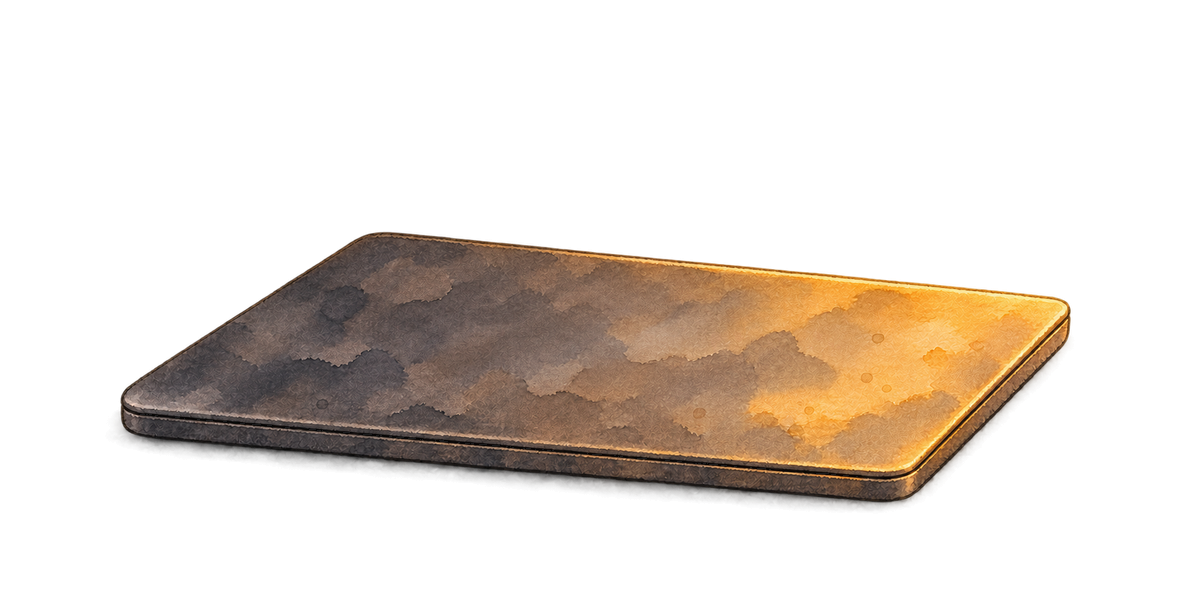
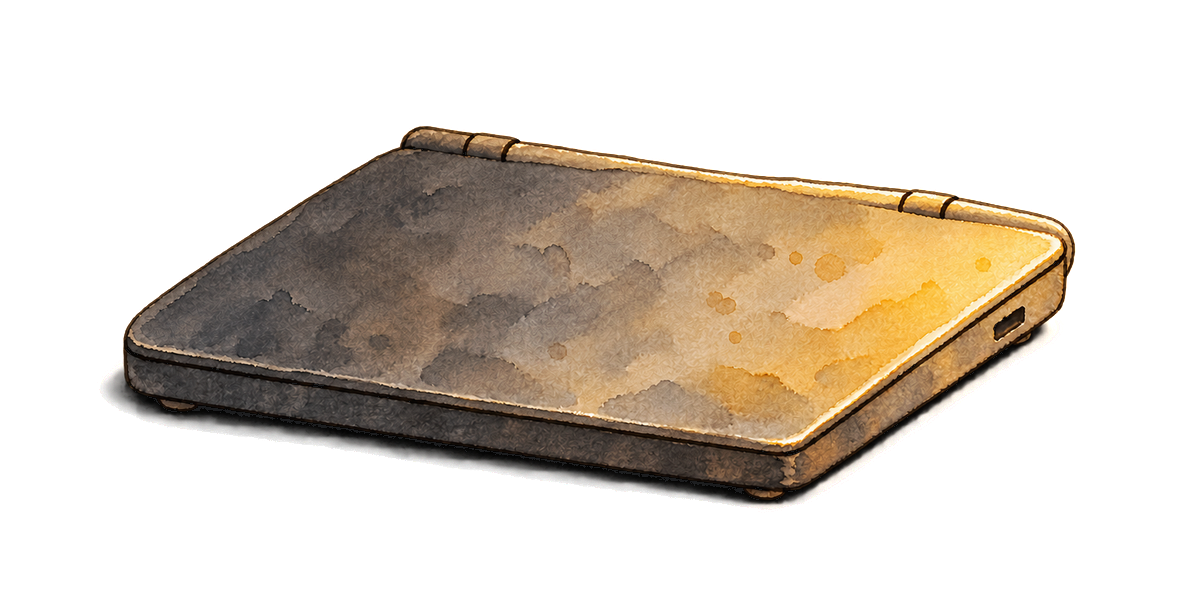
Repaint the sunrise laptop: hand-drawn contour, hinge, ground contact
The first layer read as a vector tablet floating above the path. The repaint matches
the coffee's ink line and light, shows the hinge, seam and feet, and sits on the path.
Placement anchor and lid glint updated to the new master.

diff --git a/src/lib/home/sections/sunrise/layout.ts b/src/lib/home/sections/sunrise/layout.ts
@@ -41,8 +41,8 @@ const PATH_SURFACE: [number, number][] = [
 const COFFEE_BASE = { x: 300, y: 530 };
 const COFFEE_STEAM: Rect = { x: 222, y: -230, w: 150, h: 420 };
 /** Laptop master (docs/art/sunrise/sunrise-laptop.png): where its underside meets the ground, and the lid's sunlit edge for the glint. */
-const LAPTOP_BASE = { x: 596, y: 500 };
-const LAPTOP_GLINT: Rect = { x: 820, y: 255, w: 260, h: 110 };
+const LAPTOP_BASE = { x: 599, y: 500 };
+const LAPTOP_GLINT: Rect = { x: 820, y: 250, w: 240, h: 150 };
 /** The sun baked into each sky plate (fraction of the plate), see docs/art/sunrise/README.md. */
 const SKY_SUN: Record<Breakpoint, { x: number; y: number }> = { desktop: { x: 0.79, y: 0.68 }, mobile: { x: 0.78, y: 0.5 } };
 

diff --git a/src/lib/home/sections/sunrise/art.ts b/src/lib/home/sections/sunrise/art.ts
@@ -13,5 +13,5 @@ export const ART_BOXES = {
 	valley: { canvas: { width: 2560, height: 900 }, crop: { x: 0, y: 256, width: 2560, height: 641 } },
 	cliffPath: { canvas: { width: 2560, height: 600 }, crop: { x: 0, y: 38, width: 2560, height: 534 } },
 	coffee: { canvas: { width: 600, height: 600 }, crop: { x: 5, y: 141, width: 592, height: 424 } },
-	laptop: { canvas: { width: 1200, height: 600 }, crop: { x: 101, y: 223, width: 979, height: 297 } }
+	laptop: { canvas: { width: 1200, height: 600 }, crop: { x: 89, y: 117, width: 995, height: 403 } }
 } as const satisfies Record<string, ArtBox>;

diff --git a/docs/art/sunrise/PROMPTS.md b/docs/art/sunrise/PROMPTS.md
@@ -94,36 +94,52 @@ Inspected every generation and the final composite. Cutouts checked over #FCD772
 
 ## sunrise-laptop.png
 
-Generated on 2026-11-03 with the built-in image_gen tool, highest available quality requested. The tool exposes no separate model, quality, or exact-size argument. No CLI/API fallback or dependency installation.
+Repainted on 2026-11-03 with the built-in image_gen tool, highest available quality requested. The tool exposes no separate model, quality, or exact-size argument. No CLI/API fallback or dependency installation.
 
-References (opened and inspected): `sunrise-coffee.png` (primary style, scale, camera and lighting lock), `sunrise-cliff-path.png` (ground and light), `sunrise-sky.png` and `sunrise-valley.png` (palette and atmosphere). Also inspected the owner's current-scene screenshot, `C:/Users/peter/.t3/userdata/attachments/6ba77edf-b43d-46e7-93d2-9ed90751fdb2-3b41af6f-1538-4e3e-a6cd-2fa9a0d343c6.png`; its walking character was ignored. The screenshot was context only, not a generation input.
+References (opened and inspected before prompting): `sunrise-coffee.png` (strict painting hand, ink, grain, scale and camera lock), `sunrise-cliff-path.png` (ground and light), `sunrise-valley.png` and `sunrise-sky.png` (palette and atmosphere), the rejected `sunrise-laptop.png`, and its QA composite `C:/Users/peter/AppData/Local/Temp/sunrise-laptop-qa-X6xK4f/laptop-coffee-path.png`. The old QA composite was inspection context only.
 
-Final generated source: `exec-1f4c8a8d-f952-42aa-b96b-41f46c278c0b.png`, native 1774×887, from the tool's `generated_images/01a1a33d-a873-72b0-bb61-b11bf76c291a/` directory.
+Final generated source: `exec-faa50f6e-5dff-47bd-bba9-e629be963548.png`, native 1774×887, from the tool's `generated_images/01a1a348-d1f1-70b2-9e89-449f48e4302e/` directory.
 
-Initial generation, references in order: coffee, cliff path, sky, valley. Rejected source: `exec-fb563276-c47e-4b08-bebf-4836584c3c61.png`. Its tan underlay looked like a light ground patch/halo over #18191B, so it was regenerated rather than accepted.
+Rejected original: `exec-1f4c8a8d-f952-42aa-b96b-41f46c278c0b.png`. The art lead rejected its machine-rounded outline, tablet-like thinness and missing hinge, weak contact shadow, and overly uniform orange mottling. The previous acceptance notes are superseded. The earlier tan-ground-halo attempt also remains rejected.
+
+First repaint, references in order: coffee, cliff path, sky, valley, rejected laptop (pose only). Rejected source: `exec-9343e093-a738-441b-8185-19a9a6445303.png`. Hinge and base improved, but the front contour remained too regular and a pale gray shadow fringe appeared on anthracite.
 
 ```text
-Use case: stylized-concept. Create ONE original transparent production art layer for the 06:00 sunrise footer of solo-stack.dev: a CLOSED LAPTOP lying flat on the ochre path after the night shift. Highest available image quality and fidelity. Requested canvas 1200 x 600, horizontal 2:1, real RGBA transparency.
-Input images are STYLE REFERENCES ONLY, not edit targets: 1 sunrise-coffee.png is the primary strict lock for hand-painted watercolor pigment density, soft fine ink contour weight, paper fiber texture, object pixel scale, camera and light direction; 2 sunrise-cliff-path.png is the ochre ground/material/light reference; 3 sunrise-sky.png and 4 sunrise-valley.png establish sunrise color and mood. Do not reproduce any reference objects or scenery.
-Subject: one slim generic closed 13–14 inch laptop, no logo or text. Anthracite/dusk aluminium in #2A2723 / #18191B family, with cool-warm gray watercolor pigment mottling and softly broken ink outlines matching the cup exactly. Clearly thin closed lid resting on its thin base, visible subtle seam on the front and one side. Matte painted metal, large irregular watercolor blooms and tactile paper granulation like the cream mug, not glossy or photoreal. The lid is a quiet blank plane with warm soft sheen.
-Geometry: lying completely flat, low three-quarter camera with eye slightly above the ground, consistent with the shallow coffee ellipse in reference 1. Foreshortened parallelogram lid, long edge runs along the path rotated around 15–25 degrees in plan, not an axis-aligned rectangle. Center horizontally, body approximately 950 px wide (reference mug is about 370 px wide including handle, so laptop should be 2.55 times the mug width). Bottom-front contact meets the ground at about y=500 on the 1200x600 canvas. Generous empty transparent padding on all sides; nothing cropped. Show the top of the lid and thin front/side faces. Maintain a relatively shallow lid depth in screen space.
-Lighting: low rising sun to the RIGHT and slightly BEHIND. Warm butter #FCD772 / ochre #E2A93B rim light concentrated on the upper/right edges, a soft warm pigment sheen across the right of the lid; left/front faces in shade. A soft SHORT warm-dark watercolor contact shadow directly beneath, fading toward the LEFT, semitransparent paint so ochre path will show through. Shadow must not become an opaque ground patch. No grass needed.
-Palette: cream #FBF3DD, butter #FCD772, ochre #E2A93B, anthracite #18191B, dusk #2A2723, with muted cool-warm gray pigment. NO exact pure white or black.
-Strict constraints: ONLY the closed laptop and soft contact shadow. REAL transparent alpha outside pigment; natural graded antialiasing at edges, no light paper matte or white halo. No ground patch, rock, cup, mug, steam, character, mascot, text, logo, sticker, symbols, UI, background, painted checkerboard, frame, bright glow, photorealism, 3D rendering, product-shot polish or vector shapes. Match the watercolor painting hand and grain of reference 1.
+Use case: illustration-story. Repaint ONE transparent watercolor-and-ink production sprite: a CLOSED LAPTOP, lying flat, the shift is over. Highest available generation quality and fidelity. Intended final canvas 1200x600 (2:1). Real transparent RGBA, generous transparent margins, nothing cropped.
+REFERENCES: image 1 sunrise-coffee.png is the STRICT STYLE LOCK: exactly the same painter's hand, same dark sepia hand-drawn ink with subtly wobbly varying weight, same pigment granulation, paper grain within paint, watercolor pooling and soft bleeding pigment edges. Image 2 cliff path is context for ground contact and upper-right light. Image 3 sky and image 4 valley are palette/atmosphere only. Image 5 is a REJECTED previous laptop: use only its approximate placement and foreshortened pose, DO NOT copy its machine-perfect contours, tablet thinness, even orange blotches or smooth rendered appearance.
+Paint the laptop afresh as an ink-and-watercolor drawing made by the artist who painted the mug. The outer edges must be human ink strokes with slight irregularity and intermittent pigment bleed, including subtly irregular corners. Not a perfect rounded rectangle filled with watercolor texture. No CAD or vector shape, no product rendering, no smooth bevel shader. The linework must be as visible and expressive as the mug's outline at the SAME PIXEL SCALE.
+Unmistakably a CLOSED LAPTOP: two distinct stacked slabs, thin lid seated on a visibly thicker base, dark separation seam. A visible rounded hinge barrel runs along the rear edge with small breaks at its ends. Show a discreet dark port slot on the shaded side and one tiny rubber foot in contact with the ground. Lid fully shut with no screen visible. Unbranded blank lid, no symbols.
+Geometry: three-quarter view from slightly above, matching the shallow ellipse of the coffee rim. Foreshortened parallelogram, rotated roughly 15–25 degrees in plan, broad front edge visible. Body approx 950 pixels wide on 1200 canvas; coffee mug including handle is approx 370 px. Lowest front body corner meets ground around y=500. Keep top plane shallow enough for this camera; body thickness visible and painterly, not a chunky box.
+VALUE AND LIGHT: anthracite #18191B and dusk #2A2723 painted metal. Cool dark gray left/front shaded faces. Soft butter #FCD772 and ochre #E2A93B glazes gather on the upper-right portion of lid, smoothly transition through neutral gray into darker cool left. Restrained organic blooms and grain, NOT orange camouflage all over. A slender crisp cream #FBF3DD / butter hand-painted highlight follows right and top lid edges, with small natural ink interruptions, as on the mug's sunlit rim. Light comes from upper right.
+GROUND CONTACT: a DARK warm sepia occlusion stroke tightly touches the entire underside, darkest at the lowest front corner. Short soft semi-transparent dark dusk watercolor shadow hugs underside and falls a little LEFT. The shadow must visibly ground it on an ochre path; no light pigment underlay, no tan paper halo. Only dark transparent pigment outside body, fading into actual transparency. Absolutely no painted ground or rock.
+Palette limited to cream #FBF3DD, butter #FCD772, ochre #E2A93B, anthracite #18191B, dusk #2A2723 and related cool gray watercolor mixtures. NO exact white/black. No logo, text, sticker, cup, steam, rock, landscape, character, UI, frame, checkerboard or opaque backdrop. The only output is the laptop and its short dark contact shadow.
 ```
 
-Final corrective generation, references in order: rejected laptop source, coffee master. Kept the laptop geometry and watercolor treatment while replacing the light underlay with a short dark translucent contact shadow.
+Second repaint, references in order: coffee, cliff path. Source: `exec-6e84aa7a-c3c0-4255-8554-75d7eccd4f74.png`. Accepted the more irregular ink contour, two slabs, hinge barrel and joints, side port, small feet and structured light; rejected the remaining gray underlay visible on the dark background.
 
 ```text
-Edit target: reference image 1, the generated closed watercolor laptop. Reference image 2 is sunrise-coffee.png, the strict painting style lock. Highest available quality. Preserve the laptop itself: its exact thin closed silhouette, perspective, soft fine ink lines and lid/base seam, natural granulated watercolor blooms, blank unbranded lid, gray/dusk left side and warm butter sunlight from upper right. Preserve transparent canvas and generous empty padding. Requested output 1200x600, 2:1.
-Change ONLY the shadow outside/beneath the laptop. The current tan/light brown underlay creates a glowing paper-colored halo when laid on a dark background. REMOVE ALL that light ochre/tan painted ground and replace it with actual transparency. Retain only a small, SHORT soft semi-transparent DARK dusk #2A2723 / anthracite #18191B pigment contact shadow immediately under the body, displaced slightly LEFT. Absolutely NO light-colored pigment, ochre outline, cream haze or ground patch outside the laptop silhouette. The shadow should gently darken whatever ground it is composited on, and practically disappear on #18191B; it must never lighten a dark backdrop. Graded alpha feathering of dark watercolor pigment only. Preserve the right/top rim light ON the laptop edges, not outside them. No new elements, grass, rock, cup, steam, characters, text, logos, scenery or backdrop. Real transparent RGBA, no fake checkerboard. Original watercolor painting, no vector/3D/photo polish.
+Use case: illustration-story. Paint a closed laptop in EXACTLY the traditional watercolor and ink style of reference image 1, the coffee mug. Image 2 is the path it will sit on, for lighting only. This is one isolated production PNG on REAL TRANSPARENT ALPHA, requested 1200x600. Highest available quality. No background, no paper rectangle. Only laptop and short DARK transparent shadow.
+The SAME ILLUSTRATOR who drew this mug has drawn a closed laptop next to it: variable-weight dark sepia ink, hand wobble along long edges, tiny overlapping pen strokes at corners, natural ink bleed into pigment, imperfect gently uneven contour. Hand-drawn first, pigment watercolor second. Do not draw a geometrically perfect shape and texture it. Match the mug's fine paper fibers, translucent granular washes and irregular pigment pooling. No smooth digital rendering, no photoreal metal, no vector bevels, no airbrushed uniform surfaces. Ink line thickens in shade and becomes thin and interrupted in the sun.
+Closed generic laptop lying flat on the ground, lid completely shut. Foreshortened parallelogram, three-quarter camera slightly above like the coffee mug, rotated 15-25 degrees in plan. Thin lid on thicker base, obvious dark lid/base seam. Visible rounded rear hinge barrel joining lid and base, with two modest hinge joints. One subtle side port, small rubber foot. No logo, no text, no sticker, no screen.
+Object about 950px wide on 1200x600 canvas, centered x=600, lowest front corner contact around y=500, fully visible with transparent padding. Visible top plane, front and side faces. Body modestly thick enough to read as a laptop; not a tablet and not a box.
+A quiet dark anthracite/dusk lid illuminated from UPPER RIGHT by butter-yellow dawn. Cool charcoal watercolor shade on left third and front face. Soft warm butter glazes on right third; muted gray midtones connect them. Restrained irregular watercolor blooms and granulation, not orange camouflage. Slim crisp cream/butter broken brush highlight on right edge and top edge of lid, like cup rim. Palette cream #FBF3DD, butter #FCD772, ochre #E2A93B, anthracite #18191B, dusk #2A2723; related muted grays allowed.
+The base rests HEAVILY against the ground with a DARK sepia-black occlusion line immediately beneath it, especially front corner. A SHORT shadow of TRANSLUCENT DARK PIGMENT hugs underside and extends a little LEFT. This shadow is made only of dark #18191B / #2A2723 pigment at partial opacity. NO PALE GRAY, TAN OR CREAM SHADOW PIXELS, NO LIGHT UNDERLAY, NO GROUND PATCH, NO HALO. Outside body and dark translucent shadow everything is transparent. Shadow should almost disappear when placed on #18191B. Preserve real graded alpha. Do not paint paper outside the object.
+Nothing except closed laptop and small dark contact shadow. No cup, rock, grass, scenery, person, text, logo, UI, frame, pure black or pure white.
+```
+
+Final corrective generation, references in order: second repaint, coffee master. Replaced only the gray cast-shadow treatment with much darker translucent pigment while retaining the selected laptop drawing.
+
+```text
+Use case: precise-object-edit. Image 1 is the selected hand-painted closed laptop; image 2 is the coffee style lock. Preserve the laptop exactly: painterly irregular sepia ink contours, body proportions, perspective, lid/base seam, two rear hinge joints and barrel, small side port and feet, pigment texture and upper-right butter/cream light. Preserve original transparent 2:1 canvas and placement. Highest quality.
+Change ONLY the cast shadow outside/beneath the laptop. The current gray wash is visible as a pale border on an anthracite background. Replace it with MUCH DARKER neutral warm-black pigment, RGB approximately (24,23,23), at GRADED PARTIAL ALPHA. It must be a darkening shadow, not gray paper. Keep strongest dark occlusion touching front underside and feet; soft short feather toward LEFT. The entire shadow uses this very dark pigment with opacity variation; no light gray/brown/tan pigment outside the body. No extra ground, no opaque mat, no lighter perimeter, no detached shadow. Preserve watercolor softness in alpha. On #18191B, the shadow should practically vanish; on #FCD772 it should clearly darken the ground under the laptop. NO pure black/white, no white fringe. Do not change the laptop painting, camera, blank lid, or highlights. No other objects. Real transparent RGBA.
 ```
 
 Export processing (existing sharp 0.35.5, no new dependencies):
 
-- Lanczos3 resample the entire 1774×887 source to 1114×557, preserving its 2:1 aspect ratio. Add transparent padding: left/right 43 px, top 37 px, bottom 6 px, for 1200×600. No subject crop, paint edits, sharpening or color grading.
-- Preserve the generated graded alpha; alpha < 3 becomes 0. Exact RGB (0,0,0) becomes #18191B and (255,255,255) becomes #FBF3DD, including hidden RGB values. Save non-indexed 8-bit RGBA PNG with adaptive filtering and compression level 9.
-- Body width approximately 950 px at the coffee master's pixel scale. Front-bottom ground-contact anchor: (882, 500); visual horizontal center: x=596 (body bounds midpoint). Coordinates are zero-based from the master top left; the contact anchor excludes the feathered shadow.
-- Verified 1200×600, alpha 0–255 with 254 distinct levels (1 and 2 absent), 526,424 transparent pixels, 193,260 graded pixels, 316 fully opaque pixels, zero exact black/white RGB pixels, and fully transparent canvas borders. Nonzero-alpha bounds: (105,230)–(1074,513); alpha >= 250 body bounds: (122,233)–(1069,500).
-- Visually inspected composites over #FCD772 and #18191B and beside the unscaled 600×600 coffee master over a crop of the cliff path. Watercolor granulation, fine ink contours, scale, upper-right warm light and clean alpha edges pass. No vector, glossy product-shot, 3D or photographic treatment.
-- QA files outside the repository: `C:/Users/peter/AppData/Local/Temp/sunrise-laptop-qa-X6xK4f/laptop-butter.png`, `laptop-night.png`, `laptop-coffee-path.png`; numeric checks in `qa.json`. Path QA uses the left 1000×600 path crop at 3× scale, clipped to 1900×1200; laptop and coffee stay at identical 1:1 master scale. Earlier rejected composites remain there as `attempt-1-butter.png` and `attempt-1-night.png`.
+- Crop transparent margins from the 1774×887 source at (165,218,1398,553), retaining every source pixel with alpha >= 3. Lanczos3-resample to 983×389. Add transparent padding: left 94 px, right 123 px, top 125 px, bottom 86 px, for 1200×600. No body or shadow cropping, manual repainting, sharpening or color grading.
+- Preserve generated graded alpha; alpha < 3 becomes 0. Exact RGB (0,0,0) becomes #18191B and (255,255,255) becomes #FBF3DD, including hidden RGB. Save non-indexed 8-bit RGBA PNG with adaptive filtering and compression level 9.
+- Body width 950 px at the coffee master's pixel scale. Ground-contact anchor: **(766,500)** at the lowest front-right corner's small rubber foot; visual horizontal center: **x=599** (rounded body-bounds midpoint). Coordinates are zero-based from master top left; the anchor excludes the feathered shadow.
+- Code glint target: **(781,235,285,215)** as (x,y,width,height), enclosing the sunlit diagonal right edge of the lid. Its highlight runs approximately from (1058,245) to (790,442); follow that edge rather than filling the bounding rectangle. The rear hinge and top rim sit outside most of this box.
+- Verified 1200×600, 590,095 bytes, alpha 0–255 with 254 distinct levels (1 and 2 absent), 461,371 transparent pixels, 258,270 graded pixels, 359 fully opaque pixels, zero exact black/white RGB pixels, and fully transparent canvas borders. Nonzero-alpha bounds: (94,125)–(1076,513); alpha >= 250 body bounds: (124,127)–(1073,500).
+- Visually inspected over #FCD772 and #18191B, beside the coffee at equal 1:1 master scale, and on the cliff-path crop. Same-painter check: compatible granular washes and paper grain, visibly irregular sepia contours with dark seams and broken cream highlights. Closed-laptop check: distinct lid/base, rear hinge, port and feet. Grounding check: dark occlusion at the underside and foot, short shadow falling left; no light ground halo on anthracite.
+- QA files outside the repository: `C:/Users/peter/AppData/Local/Temp/sunrise-laptop-repaint-y4y6oc/` contains `laptop-butter.png`, `laptop-night.png`, `laptop-coffee-path.png`, `laptop-coffee-style.png`, `contact-detail.png` and `qa.json`. Path QA uses the left 1000×600 path crop at 3× scale, clipped to 1900×1200; laptop at (640,70), coffee at (50,-90), both at identical 1:1 master scale. Rejected original and attempt composites remain in the same temporary directory.

diff --git a/docs/art/sunrise/README.md b/docs/art/sunrise/README.md
@@ -32,7 +32,8 @@ Quality checks: every image visually inspected, exact dimensions verified, alpha
 
 ## sunrise-laptop.png
 
-- **sunrise-laptop.png**: closed generic anthracite/dusk aluminium laptop lying flat after the night shift, painted to match `sunrise-coffee.png`. Fine ink seam, mottled watercolor lid, butter/ochre sunlight from upper right, short translucent dark contact shadow falling left. No logo, text, ground patch, rock, cup or character. Place above the cliff path beside the existing coffee; keep the same pixel-to-scene scale for both masters.
-- `sunrise-laptop.png`: 1200×600, RGBA, **433,487 bytes**; generated native 1774×887. Lanczos3-resampled to 1114×557, then transparently padded to the delivery size; no subject cropping. PNG compression level 9, graded alpha preserved, alpha < 3 → 0, no exact black/white.
-- Placement coordinates (zero-based from the master top left): front-bottom ground-contact anchor **(882, 500)**, visual horizontal center **x=596**. The body is approximately 950 px wide, versus the coffee mug's approximately 370 px including handle. The anchor is the rounded front-right body contact, not the shadow's lowest pixel; the soft shadow extends to y=513.
-- QA: inspected on #FCD772 and #18191B and beside the coffee at 1:1 master scale on a cliff-path crop. Dimensions, full transparent padding, alpha range 0–255 and absence of exact black/white verified. First attempt rejected for a tan ground halo on dark; corrected generation passes. Temporary composites are outside the repository in `C:/Users/peter/AppData/Local/Temp/sunrise-laptop-qa-X6xK4f/` (`laptop-butter.png`, `laptop-night.png`, `laptop-coffee-path.png`). Full prompts and export details are appended in [PROMPTS.md](PROMPTS.md).
+- **sunrise-laptop.png**: closed generic anthracite/dusk laptop resting flat after the night shift, repainted against `sunrise-coffee.png`. Irregular sepia ink contour, granular watercolor, two stacked slabs with a darker seam and thicker base, visible rear hinge barrel and joints, subtle side port and small feet. Butter/cream light rakes from upper right into cool front/left shade. Dark occlusion and a short translucent shadow falling left ground it. No logo, text, ground patch, rock, cup or character. Place above the cliff path beside the existing coffee at the same pixel-to-scene scale.
+- `sunrise-laptop.png`: 1200×600, RGBA, **590,095 bytes**; generated native 1774×887. Transparent margins cropped, then Lanczos3-resampled to 983×389 and transparently padded to delivery size; no subject cropping. PNG compression level 9, graded alpha preserved, alpha < 3 → 0, no exact black/white.
+- Placement coordinates (zero-based from master top left): front-right corner ground-contact anchor **(766,500)** at the small rubber foot, visual horizontal center **x=599**. Body width **950 px**, versus the coffee mug's approximately 370 px including handle. The anchor excludes the feathered shadow, which extends to y=513.
+- Code glint: sunlit right lid edge box **(781,235,285,215)** as (x,y,width,height) in master pixels. The diagonal highlight runs approximately from (1058,245) to (790,442); follow the edge within the box.
+- QA: inspected on #FCD772 and #18191B, beside the coffee at equal 1:1 master scale, and on a cliff-path crop. Ink, pigment, scale and ground contact visually checked. Dimensions, transparent borders, graded alpha range 0–255 and absence of exact black/white verified. Original rejected for product-render contours, tablet-like form and weak grounding; repaint attempts rejected for regular contours and pale/gray shadow fringes. Final shadow correction removes the pale underlay. Temporary composites are outside the repository in `C:/Users/peter/AppData/Local/Temp/sunrise-laptop-repaint-y4y6oc/` (`laptop-butter.png`, `laptop-night.png`, `laptop-coffee-path.png`, `laptop-coffee-style.png`); numeric checks in `qa.json`. Full prompts and export details are in [PROMPTS.md](PROMPTS.md).
